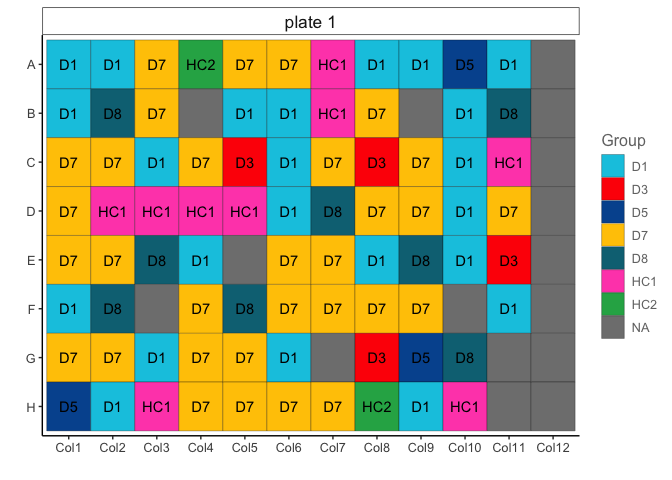
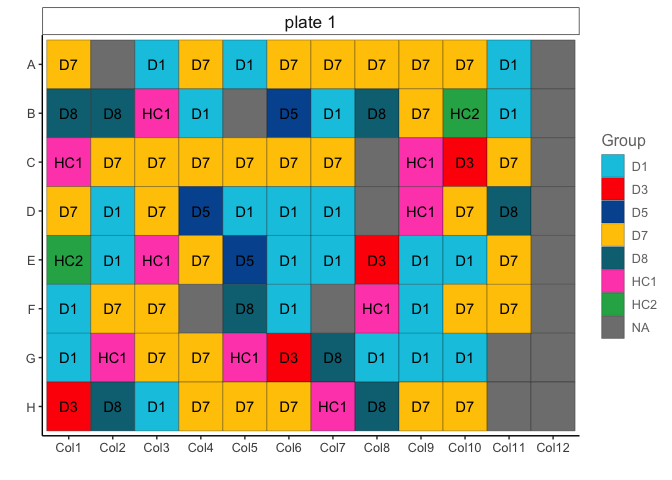
Update README.md

diff --git a/README.md b/README.md
@@ -28,8 +28,6 @@ pak::pak("IMCM-OX/easyplater")
 
 ## Example
 
-This is a basic example which shows you how to solve a common problem:
-
 ``` r
 library(easyplater)
 
